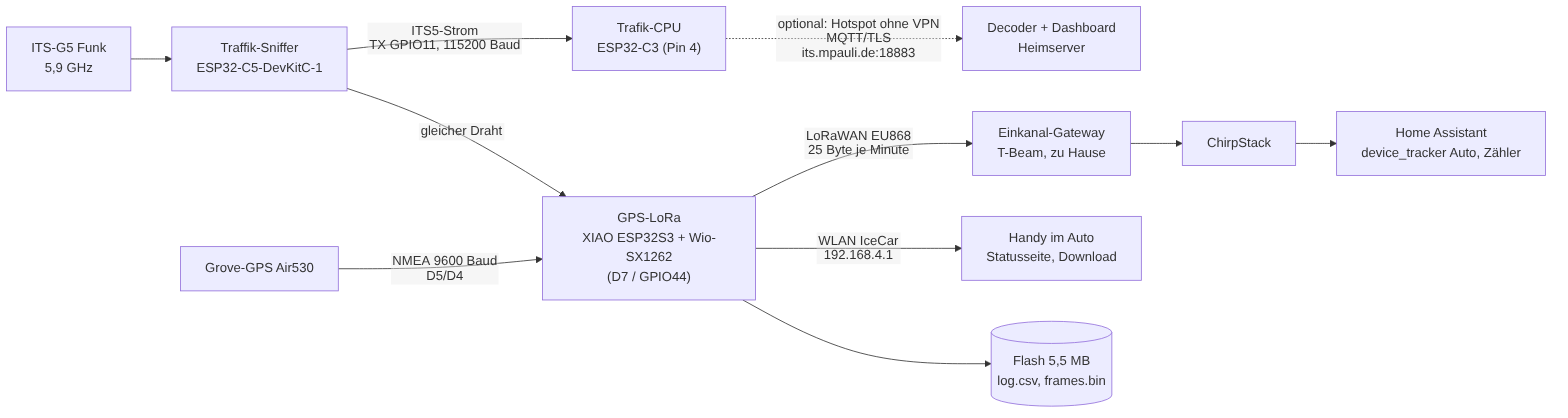
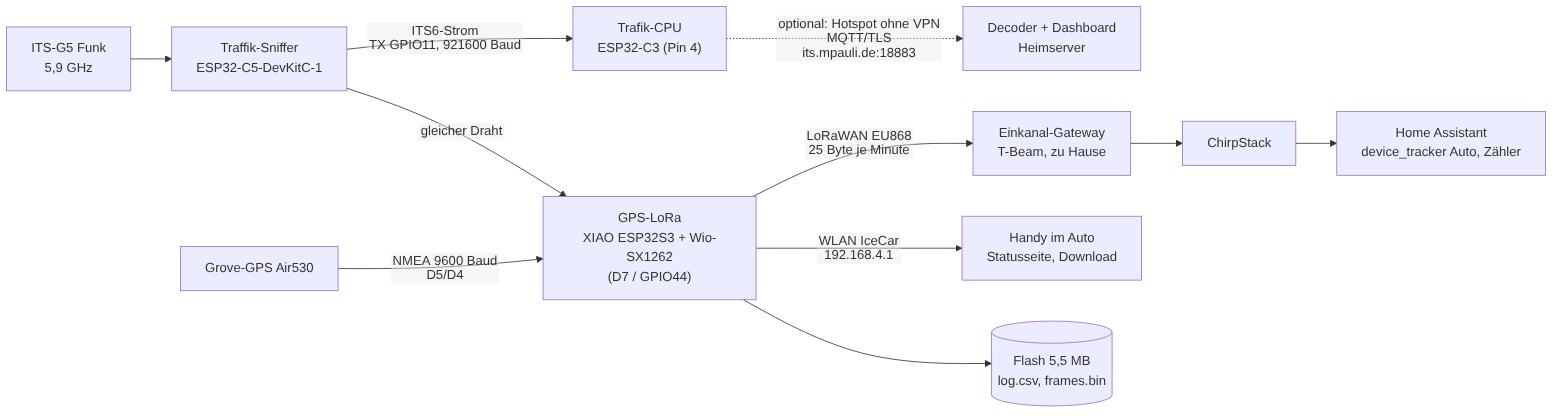
Doku: ITS6, 921600 Baud, Mitschnitt aller Pakete, neue Log-Spalten

diff --git a/docs/18-schreibtischtest-und-mitschnitt.md b/docs/18-schreibtischtest-und-mitschnitt.md
@@ -19,7 +19,7 @@ Alle drei Boards laufen am Fenster ohne USB am Akku. Dieses Kapitel hält fest, 
 ```mermaid
 flowchart LR
     ANT["ITS-G5 Funk<br/>5,9 GHz"] --> SN["Traffik-Sniffer<br/>ESP32-C5-DevKitC-1"]
-    SN -- "ITS5-Strom<br/>TX GPIO11, 115200 Baud" --> CPU["Trafik-CPU<br/>ESP32-C3 (Pin 4)"]
+    SN -- "ITS6-Strom<br/>TX GPIO11, 921600 Baud" --> CPU["Trafik-CPU<br/>ESP32-C3 (Pin 4)"]
     SN -- "gleicher Draht" --> GL["GPS-LoRa<br/>XIAO ESP32S3 + Wio-SX1262<br/>(D7 / GPIO44)"]
     GPS["Grove-GPS Air530"] -- "NMEA 9600 Baud<br/>D5/D4" --> GL
     GL -- "LoRaWAN EU868<br/>25 Byte je Minute" --> GW["Einkanal-Gateway<br/>T-Beam, zu Hause"]
@@ -96,11 +96,11 @@ Das GPS-LoRa hat 8 MB Flash, davon rund **5,5 MB** als Dateisystem (LittleFS, Pa
 | Datei | Inhalt | Umfang |
 |---|---|---|
 | **`log.csv`** | alle 10 s eine Zeile | rund 25 kB je Stunde |
-| **`frames.bin`** | Stichproben der Rohpakete im **ITS5-Format** (wie der Strom des Sniffers, der Decoder kann sie abspielen) | höchstens 3 MB |
+| **`frames.bin`** | **alle** Rohpakete im **ITS6-Format** (mit RSSI, Rauschpegel und Rate; ältere Mitschnitte enthalten ITS5-Sätze ohne RSSI; beide Formate können in einer Datei stehen) | höchstens 4 MB |
 
-**Spalten `log.csv`:** `utc, uptime_s, fix, lat, lon, kmh, sats, cam, denm, spatem, mapem, signiert, sonstige` (die Zähler gelten für das 10-s-Fenster; `utc` ist leer, solange das GPS keine Zeit hat).
+**Spalten `log.csv`:** `utc, uptime_s, fix, lat, lon, kmh, sats, cam, denm, spatem, mapem, signiert, sonstige` und seit der Firmware V1–V4 zusätzlich `rssi_avg, rssi_min, rssi_max, rx_err, unicast, dropped, bad` (alles gilt für das 10-s-Fenster; `utc` ist leer, solange das GPS keine Zeit hat; die RSSI-Spalten sind leer ohne ITS6). `rx_err` = Pakete mit Empfangsfehler (u. a. Prüfsumme), `unicast` = Pakete mit Unicast-Zieladresse, `dropped` = im Sniffer wegen voller Warteschlange verworfen, `bad` = ungültige Rahmen am Empfänger. Zeilen aus älteren Fahrten haben nur 13 Spalten.
 
-**Auswahl für `frames.bin`:** DENM, SPATEM und MAPEM werden immer gespeichert (selten, aber wichtig). CAM und signierte Pakete höchstens je eines pro 2 s, damit der Speicher nicht in Minuten voll läuft. „Sonstige" werden nicht gespeichert. Bleibt weniger als 300 kB frei, stoppt der Mitschnitt (Anzeige „Speicher voll").
+**Speichern:** Seit V1 wird **jedes** Paket gespeichert (keine Stichprobe mehr). Die Pakete laufen über einen RAM-Puffer (24 kB) und werden ab 8 kB oder spätestens nach 5 s ins Flash geschrieben; bei Stromausfall gehen höchstens die letzten 5 s verloren. Bleibt weniger als 300 kB frei oder ist `frames.bin` 4 MB groß, stoppt der Mitschnitt (Anzeige „Speicher voll"; die Statusseite zählt die nicht gespeicherten Pakete).
 
 Download und Löschen: Links und Knopf auf der Statusseite (`/log.csv`, `/frames.bin`, `POST /clear`).
 

diff --git a/docs/09-decoder.md b/docs/09-decoder.md
@@ -48,4 +48,4 @@ Alles bleibt lokal. SQLite (`msgs`) hält Rohdekodierungen 7 Tage (`retention`),
 ## Teststand – ehrlich
 - ✅ Unit-Tests (`decoder/tests`): synthetisch kodierte CAM/SPATEM → Frame → Dekodierung → Zusammenfassung; IEEE-1609.2-Hülle; defekte Frames. Ende-zu-Ende über Docker+MQTT mit synthetischem CAM.
 - ❌ **Nicht mit echten Funkdaten geprüft.** Offene Risiken: (a) Aufbau der signierten Pakete (Position von Common/Extended Header relativ zur 1609.2-Hülle), (b) SPATEM/MAPEM-Versionen in Deutschland (v1.3.x vs. 2.x, regionale Erweiterungen), (c) CAM-Version im Feld. Beim ersten Mitschnitt: Hexdump + Wireshark vergleichen; Zähler `undecoded` / `decode_error_*` zeigen Abweichungen.
-- Der ITS5-Header (Zeitstempel) wird von der Bridge entfernt; es gibt **keine RSSI**-Angabe in den Paketen.
+- Der ITS5/ITS6-Header (Zeitstempel, ab ITS6 auch RSSI, Rauschpegel und Rate) wird von der Bridge entfernt; die MQTT-Nutzlast ist unverändert das reine 802.11-Paket, der Decoder bekommt **keine RSSI**. Die RSSI steht im Mitschnitt der GPS-LoRa (`frames.bin`, `log.csv`).

diff --git a/docs/04-firmware.md b/docs/04-firmware.md
@@ -1,6 +1,6 @@
 # 4 – Firmware bauen & flashen
 
-Basis: [bertrik/its-g5-receiver](https://github.com/bertrik/its-g5-receiver) (gepinnter Stand `45db567`). Wir ergänzen einen kleinen Patch für das ESP32-C3-DevKitM-1 (UART1 auf GPIO4).
+Basis: [bertrik/its-g5-receiver](https://github.com/bertrik/its-g5-receiver) (gepinnter Stand `45db567`). Wir ergänzen zwei Patches: `0001` für das ESP32-C3-DevKitM-1 (UART1 auf GPIO4) und `0002` (Format **ITS6** mit RSSI/Rauschpegel/Rate, Zähler für Fehler-, Unicast- und verworfene Pakete, **921 600 Baud**; Details und Begründung in [22](22-plan-verbesserungen.md)). Der Rückfall auf 115 200 Baud geht mit `-DITS_BAUD=115200` in **allen drei** Firmwares.
 
 **Status:** Beide Firmwares wurden hier erfolgreich **gebaut** (C5 `devkitc1-n4`, C3 `devkitm1`). Geflasht/getestet ist noch nichts – die Boards sind noch nicht da.
 

diff --git a/docs/03-verdrahtung.md b/docs/03-verdrahtung.md
@@ -24,7 +24,7 @@ flowchart LR
 </details>
 
 
-3 Drähte: **GND, 5 V, Daten (C5 TX → C3 GPIO4)**, 115200 Baud, 3,3-V-Logik.
+3 Drähte: **GND, 5 V, Daten (C5 TX → C3 GPIO4)**, seit Patch 0002 **921 600 Baud** (vorher 115 200), 3,3-V-Logik. Bei langen oder losen Drähten notfalls auf 115 200 Baud zurück (`-DITS_BAUD=115200`).
 
 ## Warum GPIO4 und nicht GPIO20 wie beim Autor?
 Der Autor nutzt ein C3-Supermini mit nativem USB: dort ist UART0 (GPIO20/21) frei. Beim **DevKitM-1** hängt UART0 am USB-UART-Chip (CP2102). Ein zweiter Treiber auf GPIO20 würde mit dem CP2102 kollidieren und die Konsole stören. Darum liest unser [Patch](../firmware/0001-devkitm1-uart1.patch) die Daten von **UART1 auf GPIO4**.

diff --git a/firmware/lora-car-node/README.md b/firmware/lora-car-node/README.md
@@ -39,7 +39,7 @@ python3 scripts/simulate-uplink.py /opt/chirpstack/car_device.json     # erschei
 ## Dateien
 | Datei | Zweck |
 |---|---|
-| `src/its_parse.h` | ITS5-Strom, 802.11p/GeoNetworking/BTP-Erkennung, Nutzlast (ohne Arduino-Abhängigkeit) |
+| `src/its_parse.h` | ITS5/ITS6-Strom (RSSI, Statistikrahmen), 802.11p/GeoNetworking/BTP-Erkennung, Nutzlast (ohne Arduino-Abhängigkeit) |
 | `src/main.cpp` | Hardware: UARTs, GNSS, LoRaWAN, WLAN-Statusseite, Mitschnitt |
 | `src/eu868_single.h` | Einkanal-Bandplan, übernommen aus dem IceGeiger-Projekt |
 | `chirpstack-codec.js` | Payload-Decoder für ChirpStack |

diff --git a/README.md b/README.md
@@ -13,7 +13,7 @@ Mobiler Empfang von **C-ITS / ITS-G5 (802.11p)** Verkehrsdaten im Auto – Ampel
 ```mermaid
 flowchart LR
     RSU["Ampel / RSU<br/>Fahrzeuge / Baustellenwarner"] -- "ITS-G5 5,9 GHz" --> C5["ESP32-C5<br/>Sniffer"]
-    C5 -- "UART 115200, ITS5-Format" --> C3["ESP32-C3<br/>WLAN/MQTT-Bruecke"]
+    C5 -- "UART 921600, ITS6-Format" --> C3["ESP32-C3<br/>WLAN/MQTT-Bruecke"]
     C3 -- "WLAN 2,4 GHz" --> HS["iPhone<br/>Hotspot"]
     HS -- "LTE/5G, MQTT/TLS" --> SRV["Heimserver<br/>Decoder + Dashboard"]
     SRV --> SAF["Safari auf dem iPhone"]
